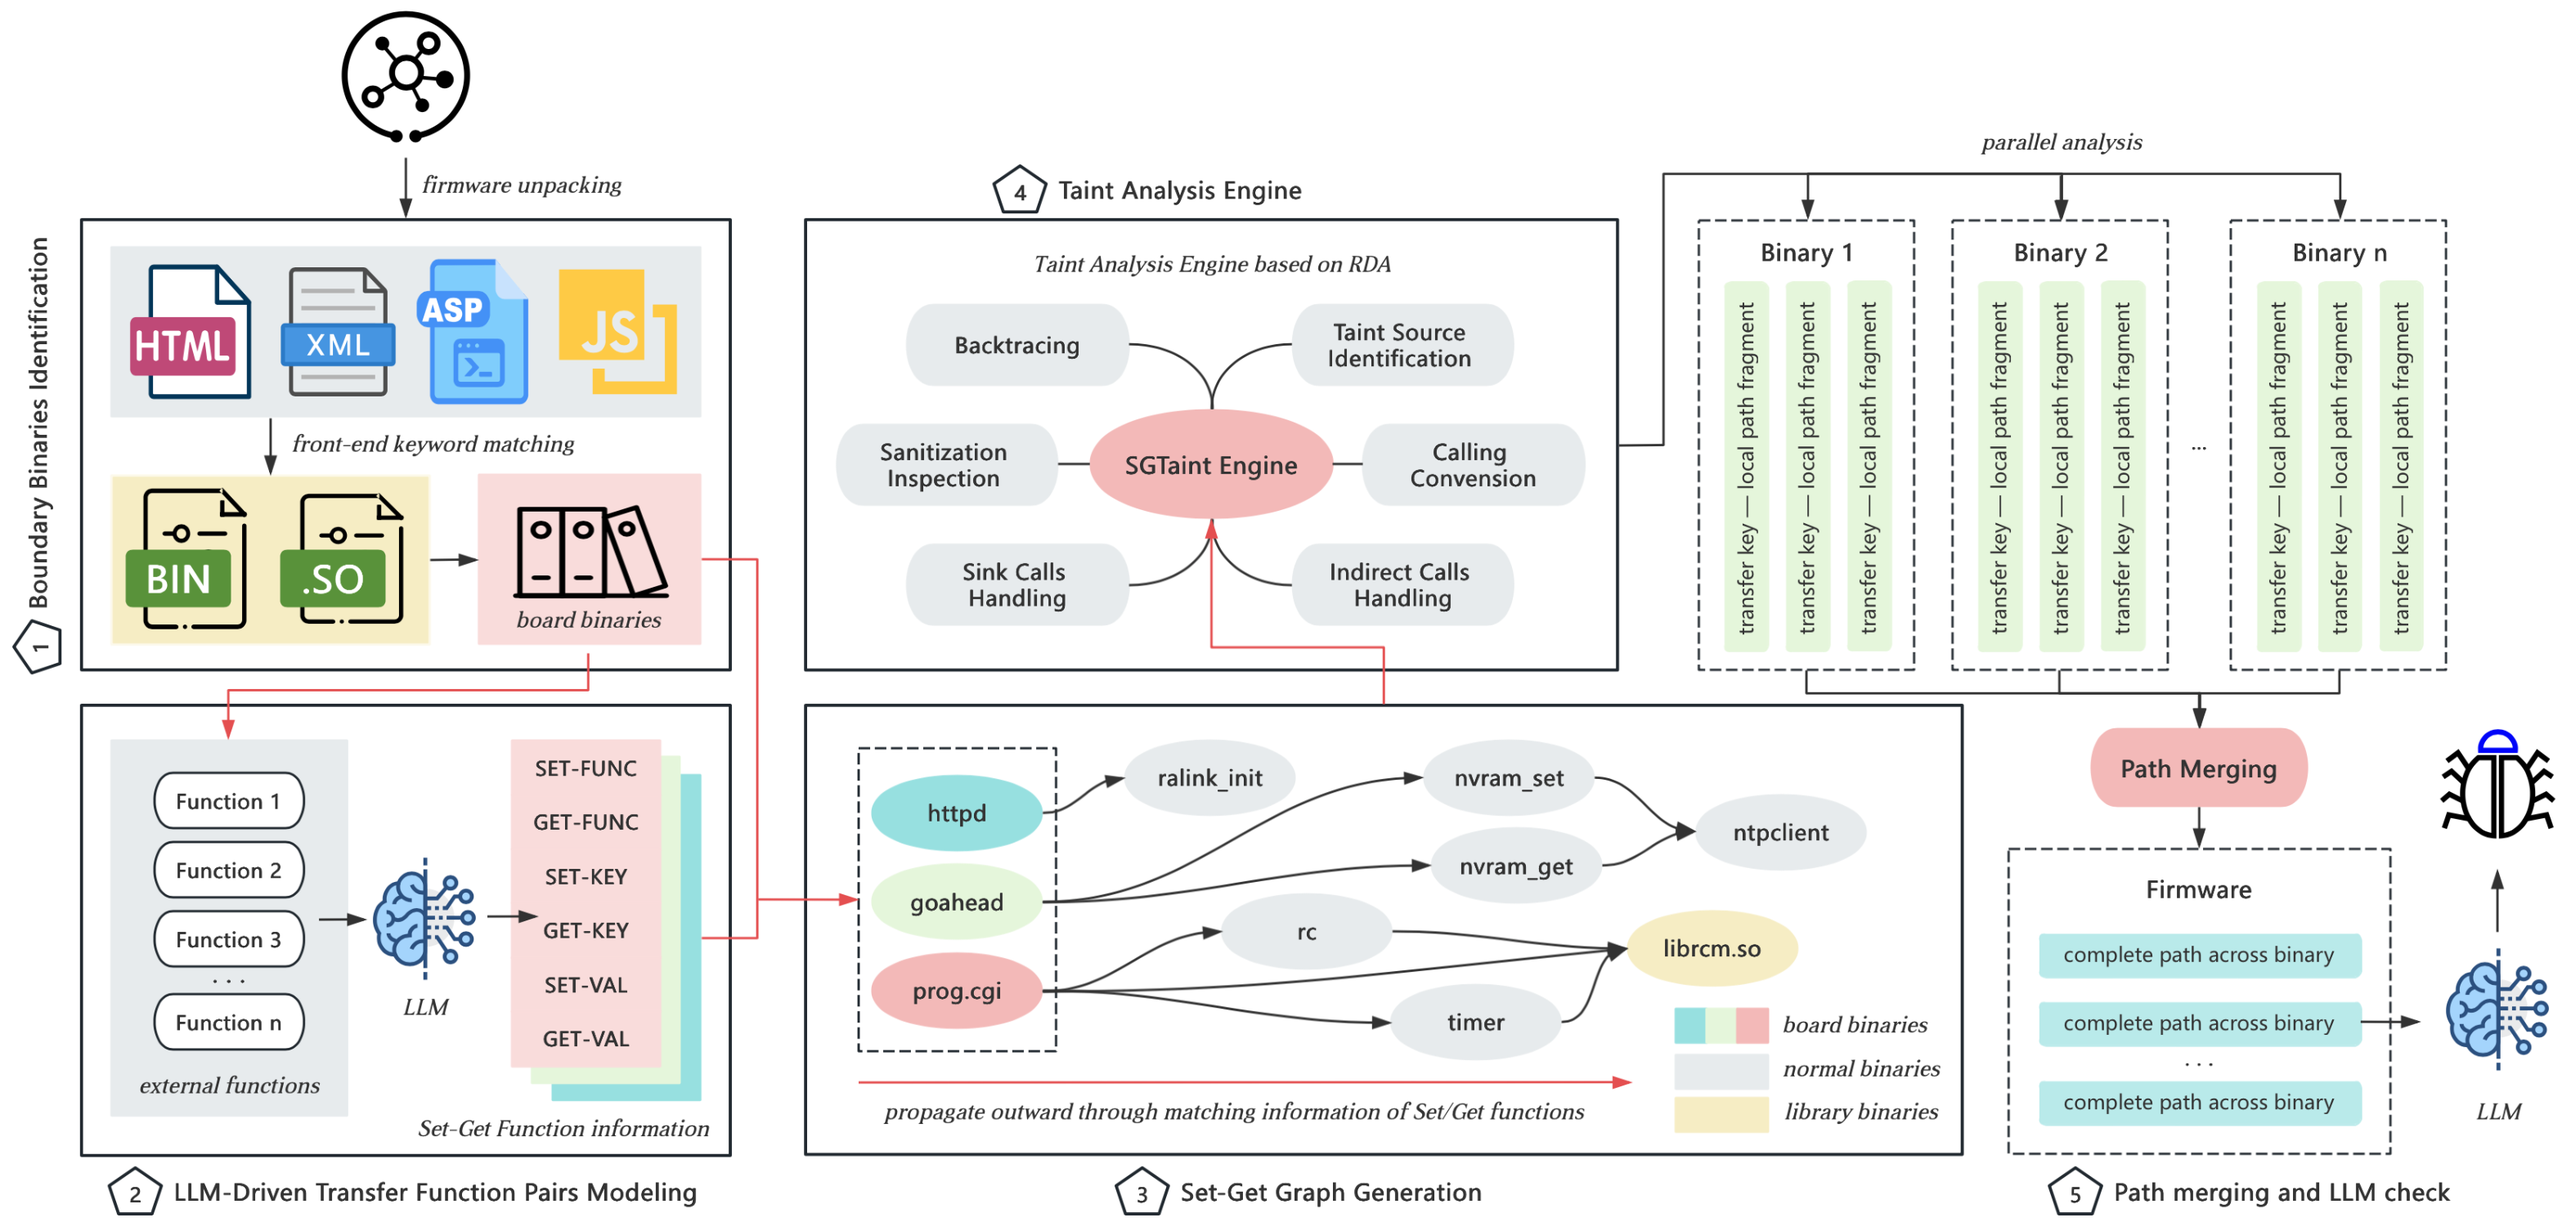
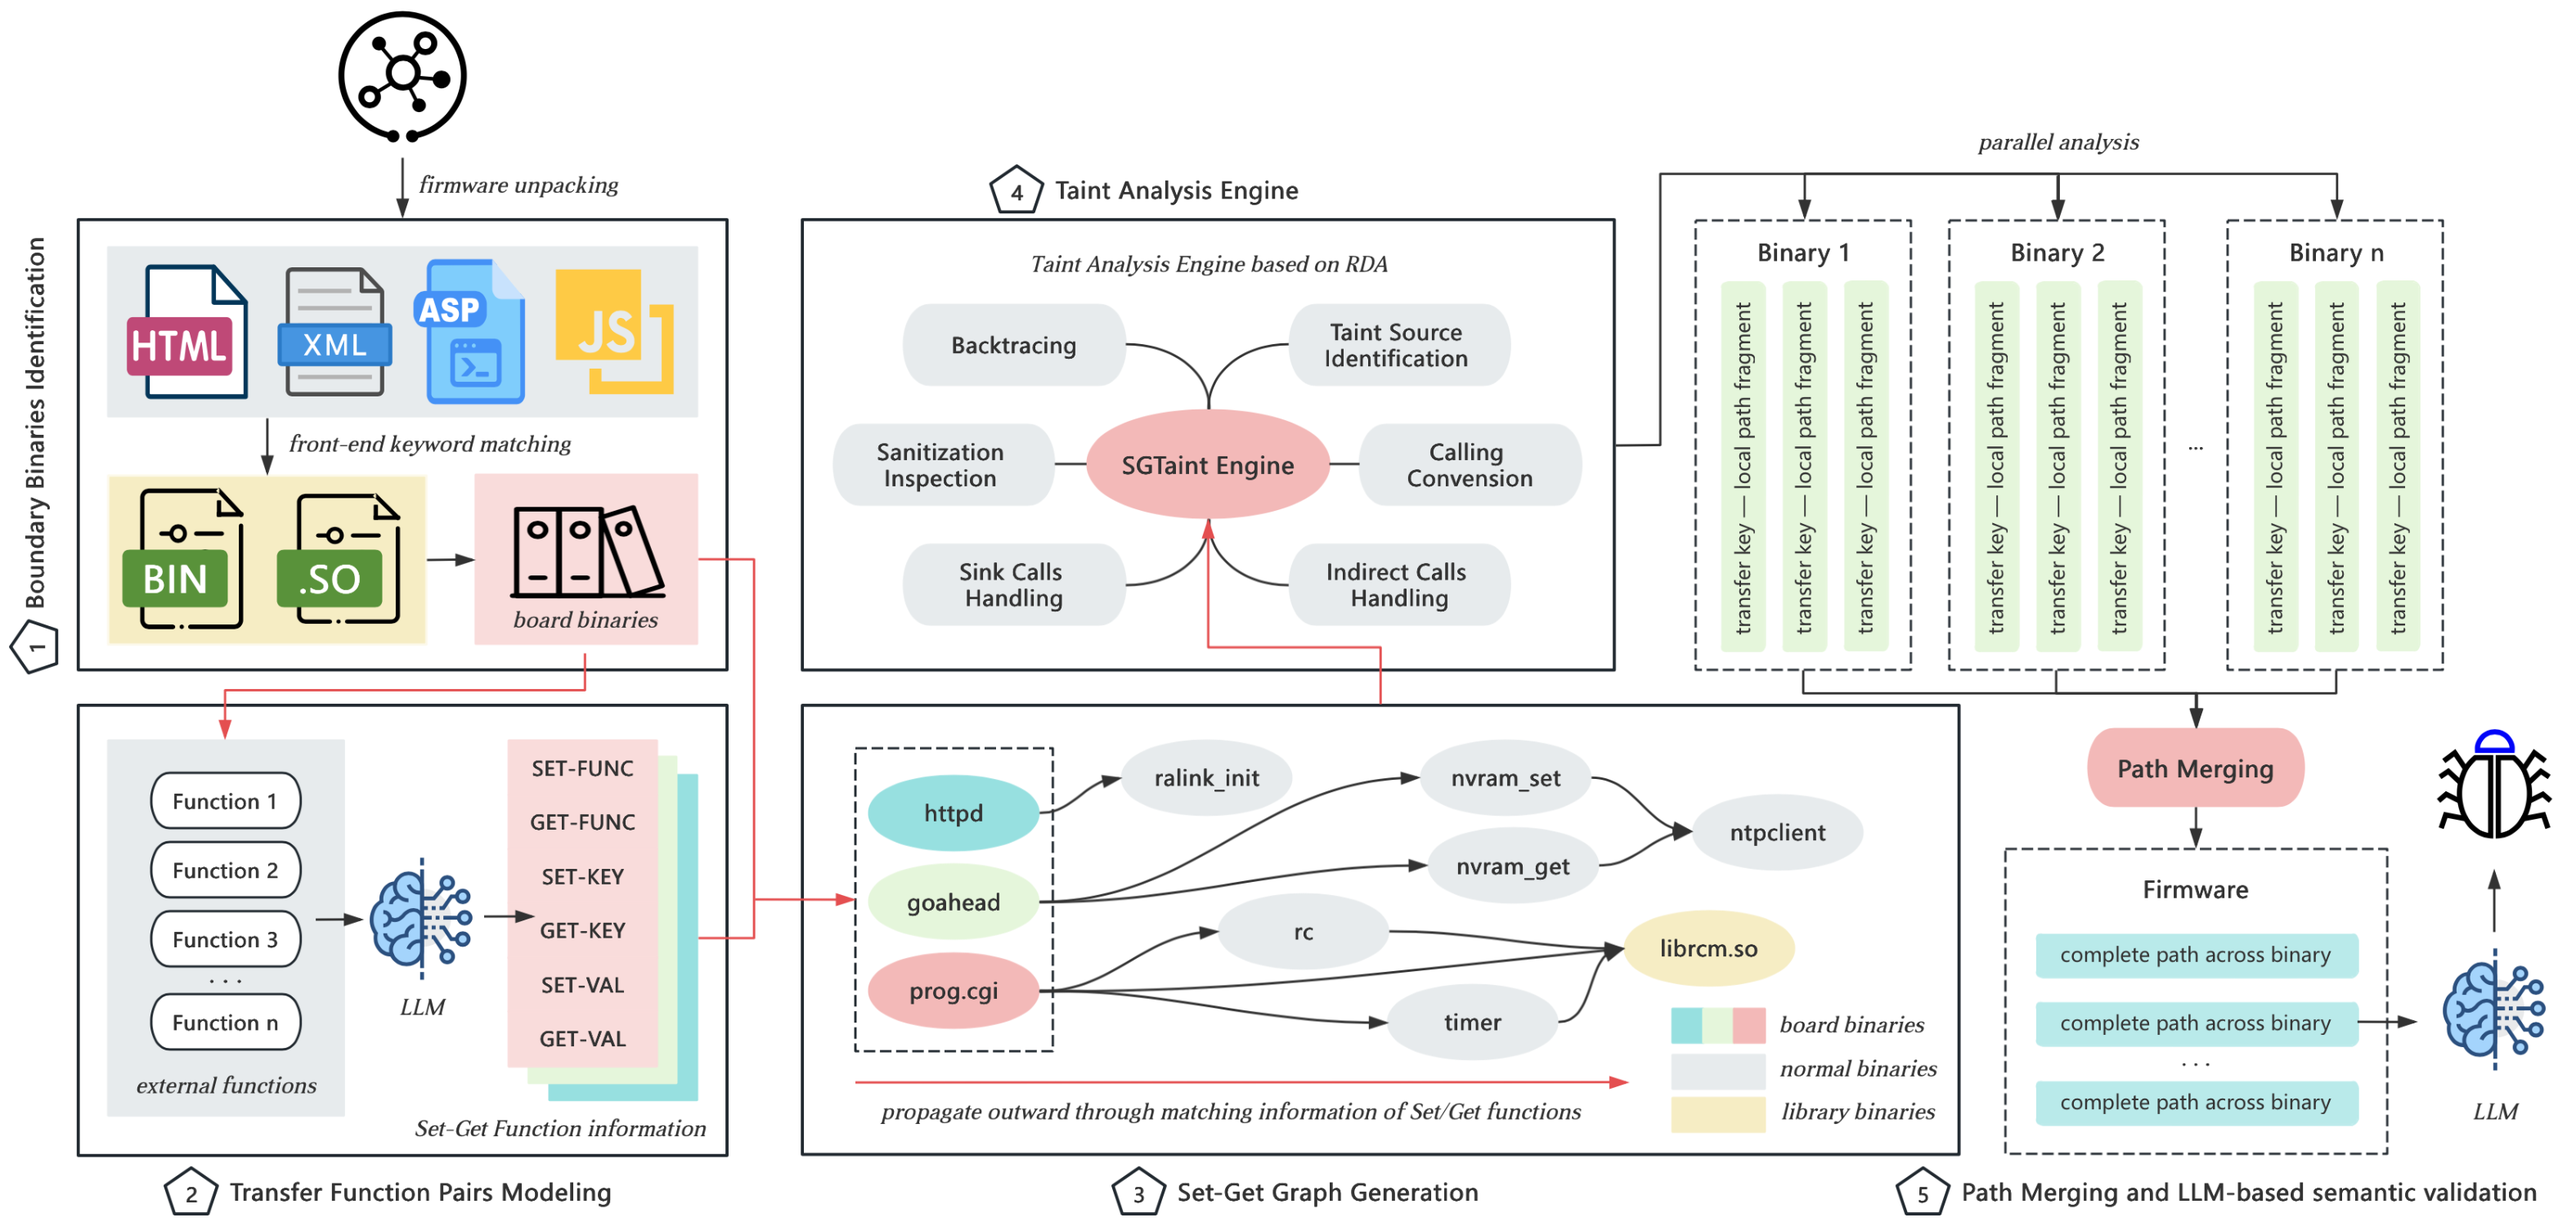
fix README

diff --git a/README.md b/README.md
@@ -12,7 +12,7 @@ To facilitate ease of use and reproducibility, we offer a pre-configured Docker 
 
 ### Use the compiled docker environment directly
 
-The pre-built Docker image (`sgtaint_image`) will be made available upon paper acceptance to comply with the double-blind review policy.
+The pre-built Docker image `sgtaint_image` for SGTaint can be obtained from [sgtaint_image.rar](https://pan.sjtu.edu.cn/web/share/0493fa95efc9aad891a1c3c1adbe5ec0)
 
 ``````bash
 # Loading the Docker Image
@@ -136,7 +136,7 @@ The file `<firmware_mark>_path_sanitization_llm_check.json`, located in the `log
 
 ### Our dataset
 
-The evaluation dataset will be made available upon paper acceptance to comply with the double-blind review policy.
+The dataset can be obtained from [SGTaint_dataset.zip](https://pan.sjtu.edu.cn/web/share/8852971219b92e4f56668cd393b74522)
 
 ### Case Study
 
@@ -157,3 +157,7 @@ python -m tool.sgtaint -f /home/firmware/Current_dataset/D-Link/DIR-878/cpio-roo
 ``````
 python -m tool.sgtaint -f /home/firmware/Current_dataset/D-Link/DIR-878/cpio-root -n DIR-878 -o /home/output/DIR-878 -s "[(nvram_bufset, nvram_bufget, 1, 1, 2, None), (nvram_safe_set, nvram_safe_get, 0, 0, 1, None)]" -p -l
 ``````
+
+## 0-day Vulnerabilities
+
+All 0-day vulnerabilities identified by SGTaint are comprehensively documented in the repository [SGTaint-0-day](https://github.com/yifan20020708/SGTaint-0-day)
